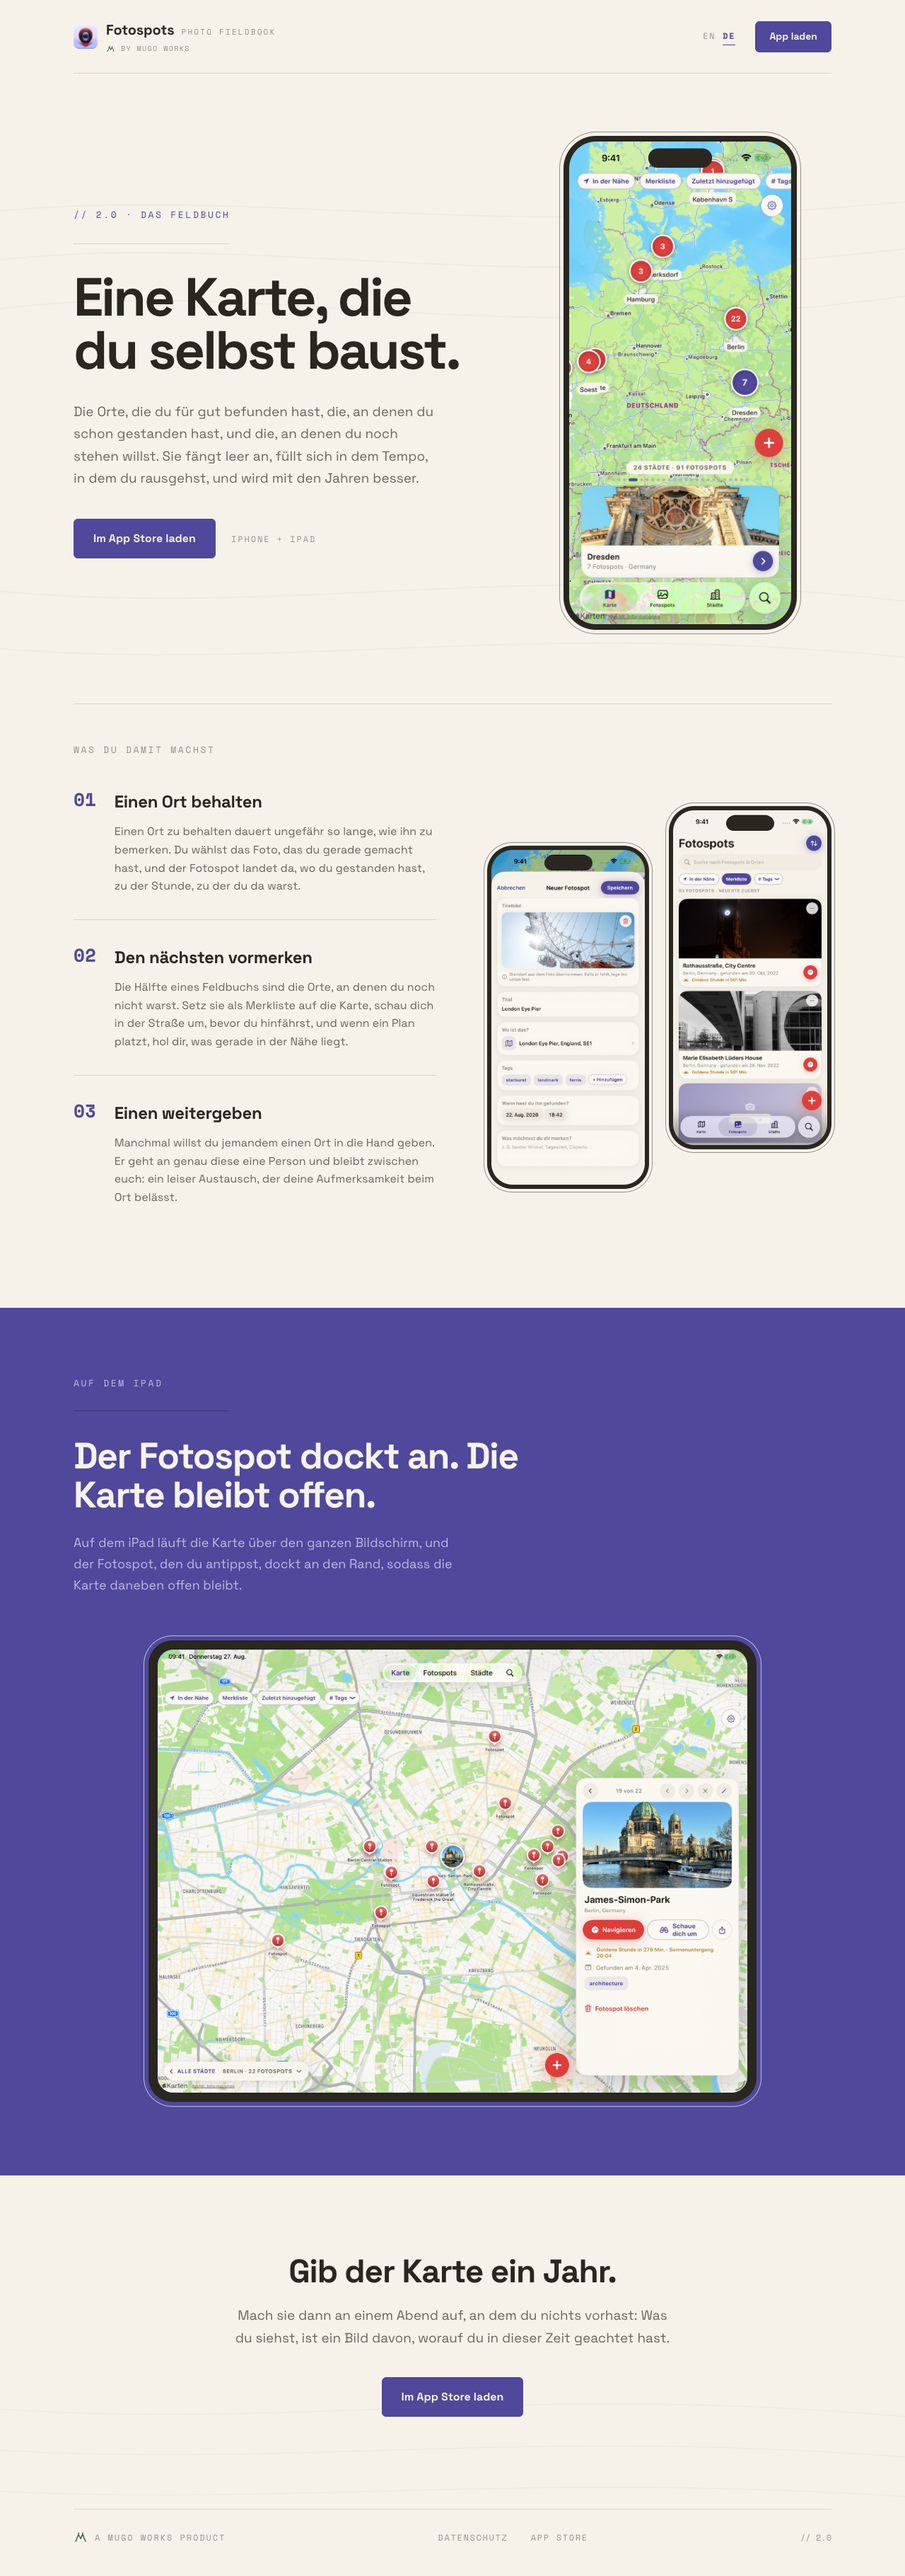
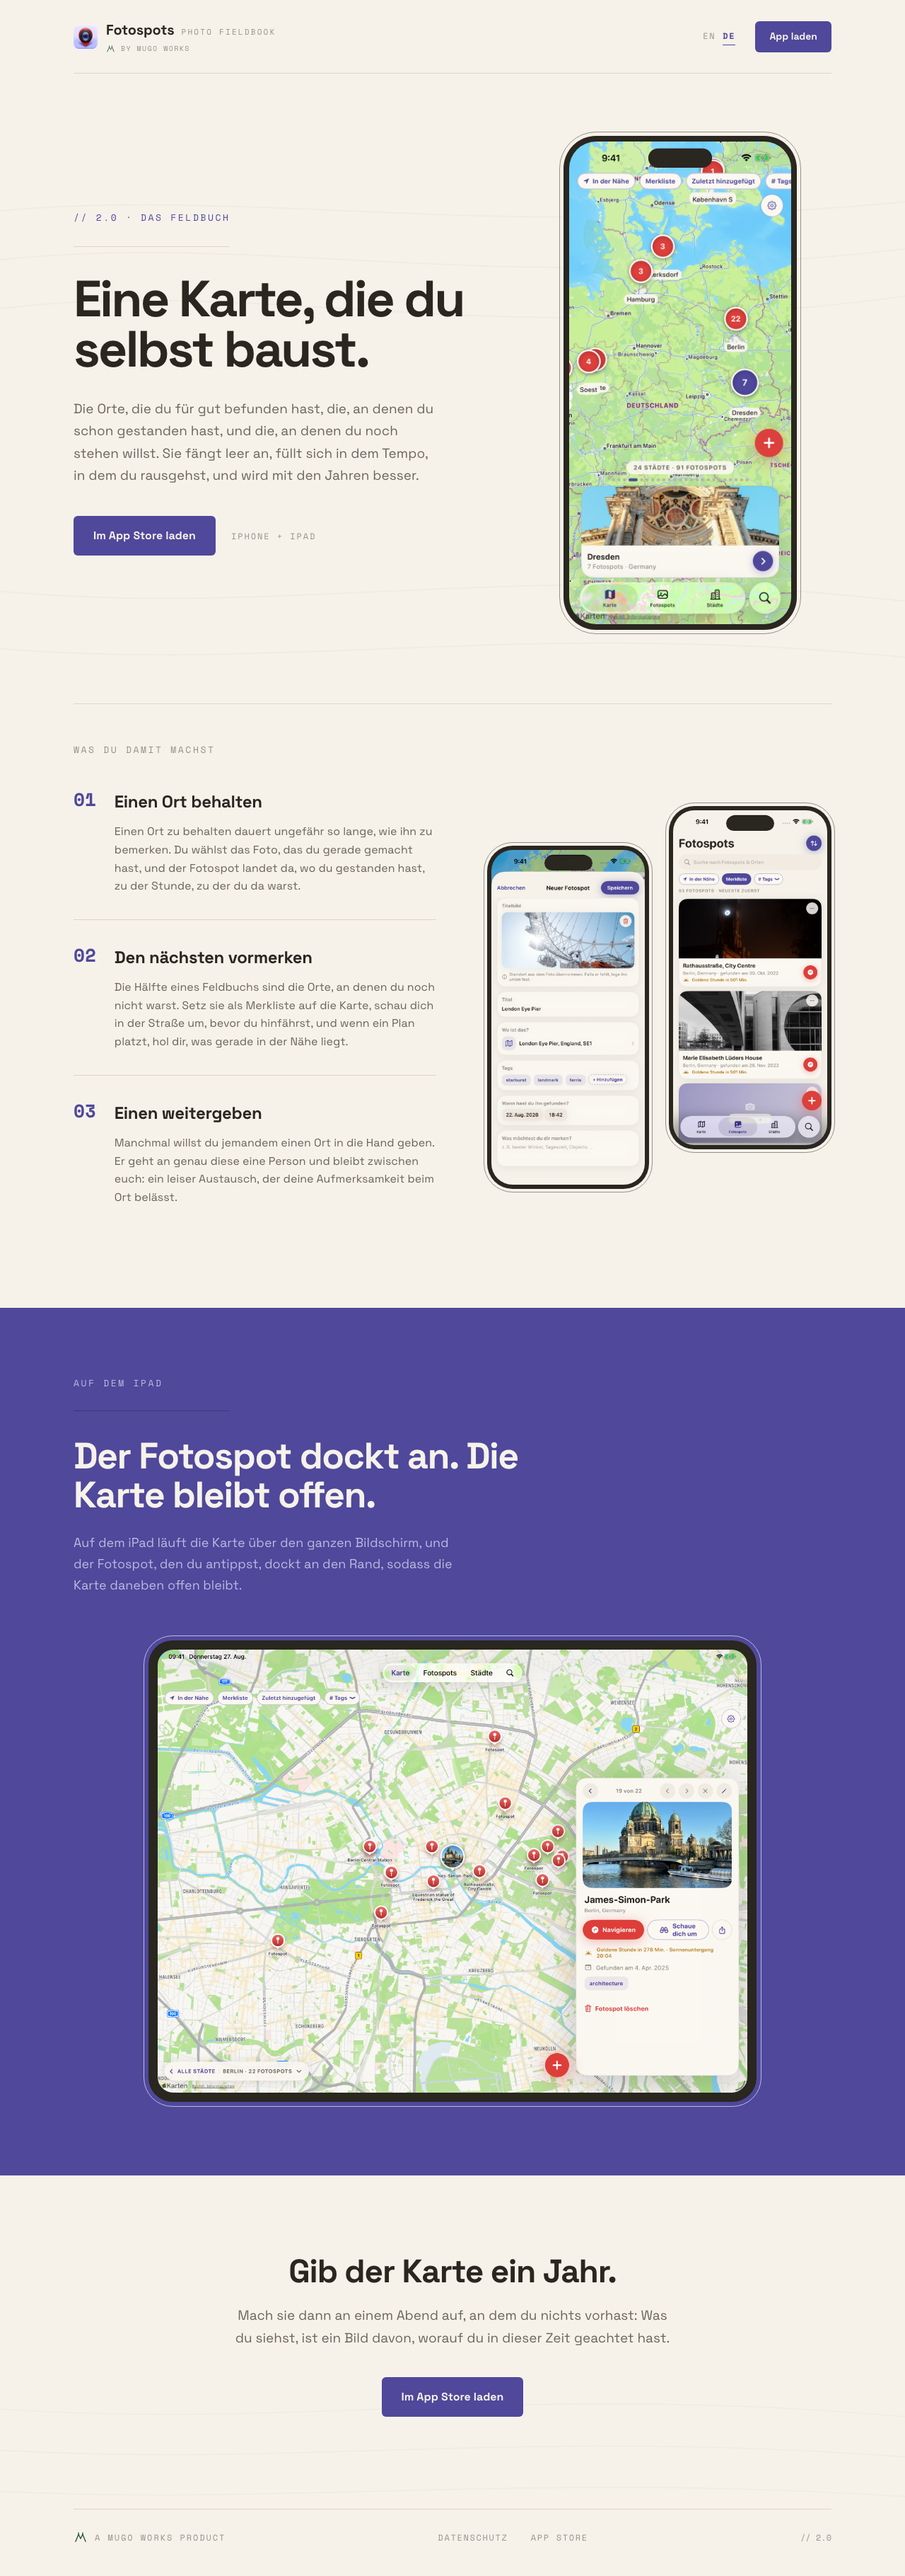
fix(landing): scope DE H1 to 72px and rename spread classes [photospots-landing-page-91e.4]
QA round 1 flagged the DE hero H1 rendering at the EN 76px size instead of
the design spec's 72px, and terminology drift where the WHAT YOU DO WITH IT
two-column pattern used fs-stanzas-* instead of the bound term "Spread"
(docs/guide/terminology.md). Scope the H1 override with :where() so it
matches .fs-h1's specificity and the mobile breakpoints still win for both
languages, and rename fs-stanzas-*/fs-stanza-* to fs-spread-*/fs-spread-item-*
throughout index.html and css/style.css. Re-captured the EN/DE render-check
screenshots (1280px, 375px, and the language-toggle mid-transition shot) so
the evidence reflects the fix.

Bead: photospots-landing-page-91e.4

Changed region(s): [[0.0938, 0.0931, 0.5, 0.2173]]

diff --git a/index.html b/index.html
@@ -113,48 +113,48 @@
         </div>
       </section>
 
-      <section class="fs-stanzas-section" aria-labelledby="stanzas-eyebrow">
+      <section class="fs-spread-section" aria-labelledby="spread-eyebrow">
         <div class="fs-hairline"></div>
-        <div id="stanzas-eyebrow" class="fs-stanzas-eyebrow">
+        <div id="spread-eyebrow" class="fs-spread-eyebrow">
           <span class="fs-l-en">WHAT YOU DO WITH IT</span>
           <span class="fs-l-de">WAS DU DAMIT MACHST</span>
         </div>
-        <div class="fs-stanzas-grid">
+        <div class="fs-spread-grid">
           <div>
-            <div class="fs-stanza">
-              <span class="fs-stanza-num">01</span>
+            <div class="fs-spread-item">
+              <span class="fs-spread-item-num">01</span>
               <div>
-                <h3 class="fs-stanza-h">
+                <h3 class="fs-spread-item-h">
                   <span class="fs-l-en">Keep a place</span>
                   <span class="fs-l-de">Einen Ort behalten</span>
                 </h3>
-                <p class="fs-stanza-body">
+                <p class="fs-spread-item-body">
                   <span class="fs-l-en">Keeping a place takes about as long as noticing it. Pick the photo you just took and the spot lands where you were standing, at the hour you were there. Write down why you kept it: the light, the angle, the walk in.</span>
                   <span class="fs-l-de">Einen Ort zu behalten dauert ungefähr so lange, wie ihn zu bemerken. Du wählst das Foto, das du gerade gemacht hast, und der Fotospot landet da, wo du gestanden hast, zu der Stunde, zu der du da warst.</span>
                 </p>
               </div>
             </div>
-            <div class="fs-stanza">
-              <span class="fs-stanza-num">02</span>
+            <div class="fs-spread-item">
+              <span class="fs-spread-item-num">02</span>
               <div>
-                <h3 class="fs-stanza-h">
+                <h3 class="fs-spread-item-h">
                   <span class="fs-l-en">Plan the next one</span>
                   <span class="fs-l-de">Den nächsten vormerken</span>
                 </h3>
-                <p class="fs-stanza-body">
+                <p class="fs-spread-item-body">
                   <span class="fs-l-en">Half of a fieldbook is the places you have not been to yet. Put those on the map as a wishlist, look around the street before you drive out there, and when a plan falls apart, pull up whatever is near you instead.</span>
                   <span class="fs-l-de">Die Hälfte eines Feldbuchs sind die Orte, an denen du noch nicht warst. Setz sie als Merkliste auf die Karte, schau dich in der Straße um, bevor du hinfährst, und wenn ein Plan platzt, hol dir, was gerade in der Nähe liegt.</span>
                 </p>
               </div>
             </div>
-            <div class="fs-stanza">
-              <span class="fs-stanza-num">03</span>
+            <div class="fs-spread-item">
+              <span class="fs-spread-item-num">03</span>
               <div>
-                <h3 class="fs-stanza-h">
+                <h3 class="fs-spread-item-h">
                   <span class="fs-l-en">Hand one over</span>
                   <span class="fs-l-de">Einen weitergeben</span>
                 </h3>
-                <p class="fs-stanza-body">
+                <p class="fs-spread-item-body">
                   <span class="fs-l-en">Every so often a place is worth handing to someone. It goes to that one person and stays between you, a private exchange that keeps your attention on the place itself.</span>
                   <span class="fs-l-de">Manchmal willst du jemandem einen Ort in die Hand geben. Er geht an genau diese eine Person und bleibt zwischen euch: ein leiser Austausch, der deine Aufmerksamkeit beim Ort belässt.</span>
                 </p>

diff --git a/css/style.css b/css/style.css
@@ -335,6 +335,15 @@ html[data-lang="de"] .fs-lang-btn[data-lang="de"] {
   margin: 0;
 }
 
+/*
+  DE headline sets one point smaller than EN per the design spec (72px vs 76px).
+  :where() keeps this at the same specificity as .fs-h1 so the responsive
+  overrides below still win on narrow viewports for both languages.
+*/
+:where(html[data-lang="de"]) .fs-h1 {
+  font-size: 72px;
+}
+
 .fs-hero-lead {
   font-size: 19px;
   line-height: 1.65;
@@ -440,13 +449,13 @@ html[data-lang="de"] .fs-lang-btn[data-lang="de"] {
 
 /* ---------- "What you do with it" spread ---------- */
 
-.fs-stanzas-section {
+.fs-spread-section {
   max-width: var(--fs-content-max);
   margin: 0 auto;
   padding: 0 var(--fs-side-padding) 110px;
 }
 
-.fs-stanzas-eyebrow {
+.fs-spread-eyebrow {
   font-family: var(--fs-font-mono);
   font-size: 13px;
   letter-spacing: 0.2em;
@@ -454,25 +463,25 @@ html[data-lang="de"] .fs-lang-btn[data-lang="de"] {
   padding: 54px 0 10px;
 }
 
-.fs-stanzas-grid {
+.fs-spread-grid {
   display: grid;
   grid-template-columns: minmax(0, 1fr) minmax(0, 0.95fr);
   gap: 72px;
   align-items: center;
 }
 
-.fs-stanza {
+.fs-spread-item {
   display: flex;
   gap: 26px;
   padding: 34px 0;
   border-bottom: var(--fs-hairline-weight) solid var(--fs-hairline);
 }
 
-.fs-stanza:last-child {
+.fs-spread-item:last-child {
   border-bottom: 0;
 }
 
-.fs-stanza-num {
+.fs-spread-item-num {
   font-family: var(--fs-font-mono);
   font-size: 26px;
   font-weight: 700;
@@ -481,14 +490,14 @@ html[data-lang="de"] .fs-lang-btn[data-lang="de"] {
   flex: none;
 }
 
-.fs-stanza-h {
+.fs-spread-item-h {
   margin: 0 0 10px;
   font-size: 24px;
   font-weight: 700;
   letter-spacing: -0.015em;
 }
 
-.fs-stanza-body {
+.fs-spread-item-body {
   margin: 0;
   font-size: 16px;
   line-height: 1.6;
@@ -668,7 +677,7 @@ html[data-lang="de"] .fs-lang-btn[data-lang="de"] {
     font-size: 56px;
   }
 
-  .fs-stanzas-grid {
+  .fs-spread-grid {
     grid-template-columns: 1fr;
     gap: 48px;
   }
@@ -710,7 +719,7 @@ html[data-lang="de"] .fs-lang-btn[data-lang="de"] {
     font-size: 17px;
   }
 
-  .fs-stanzas-section {
+  .fs-spread-section {
     padding-bottom: 72px;
   }
 
